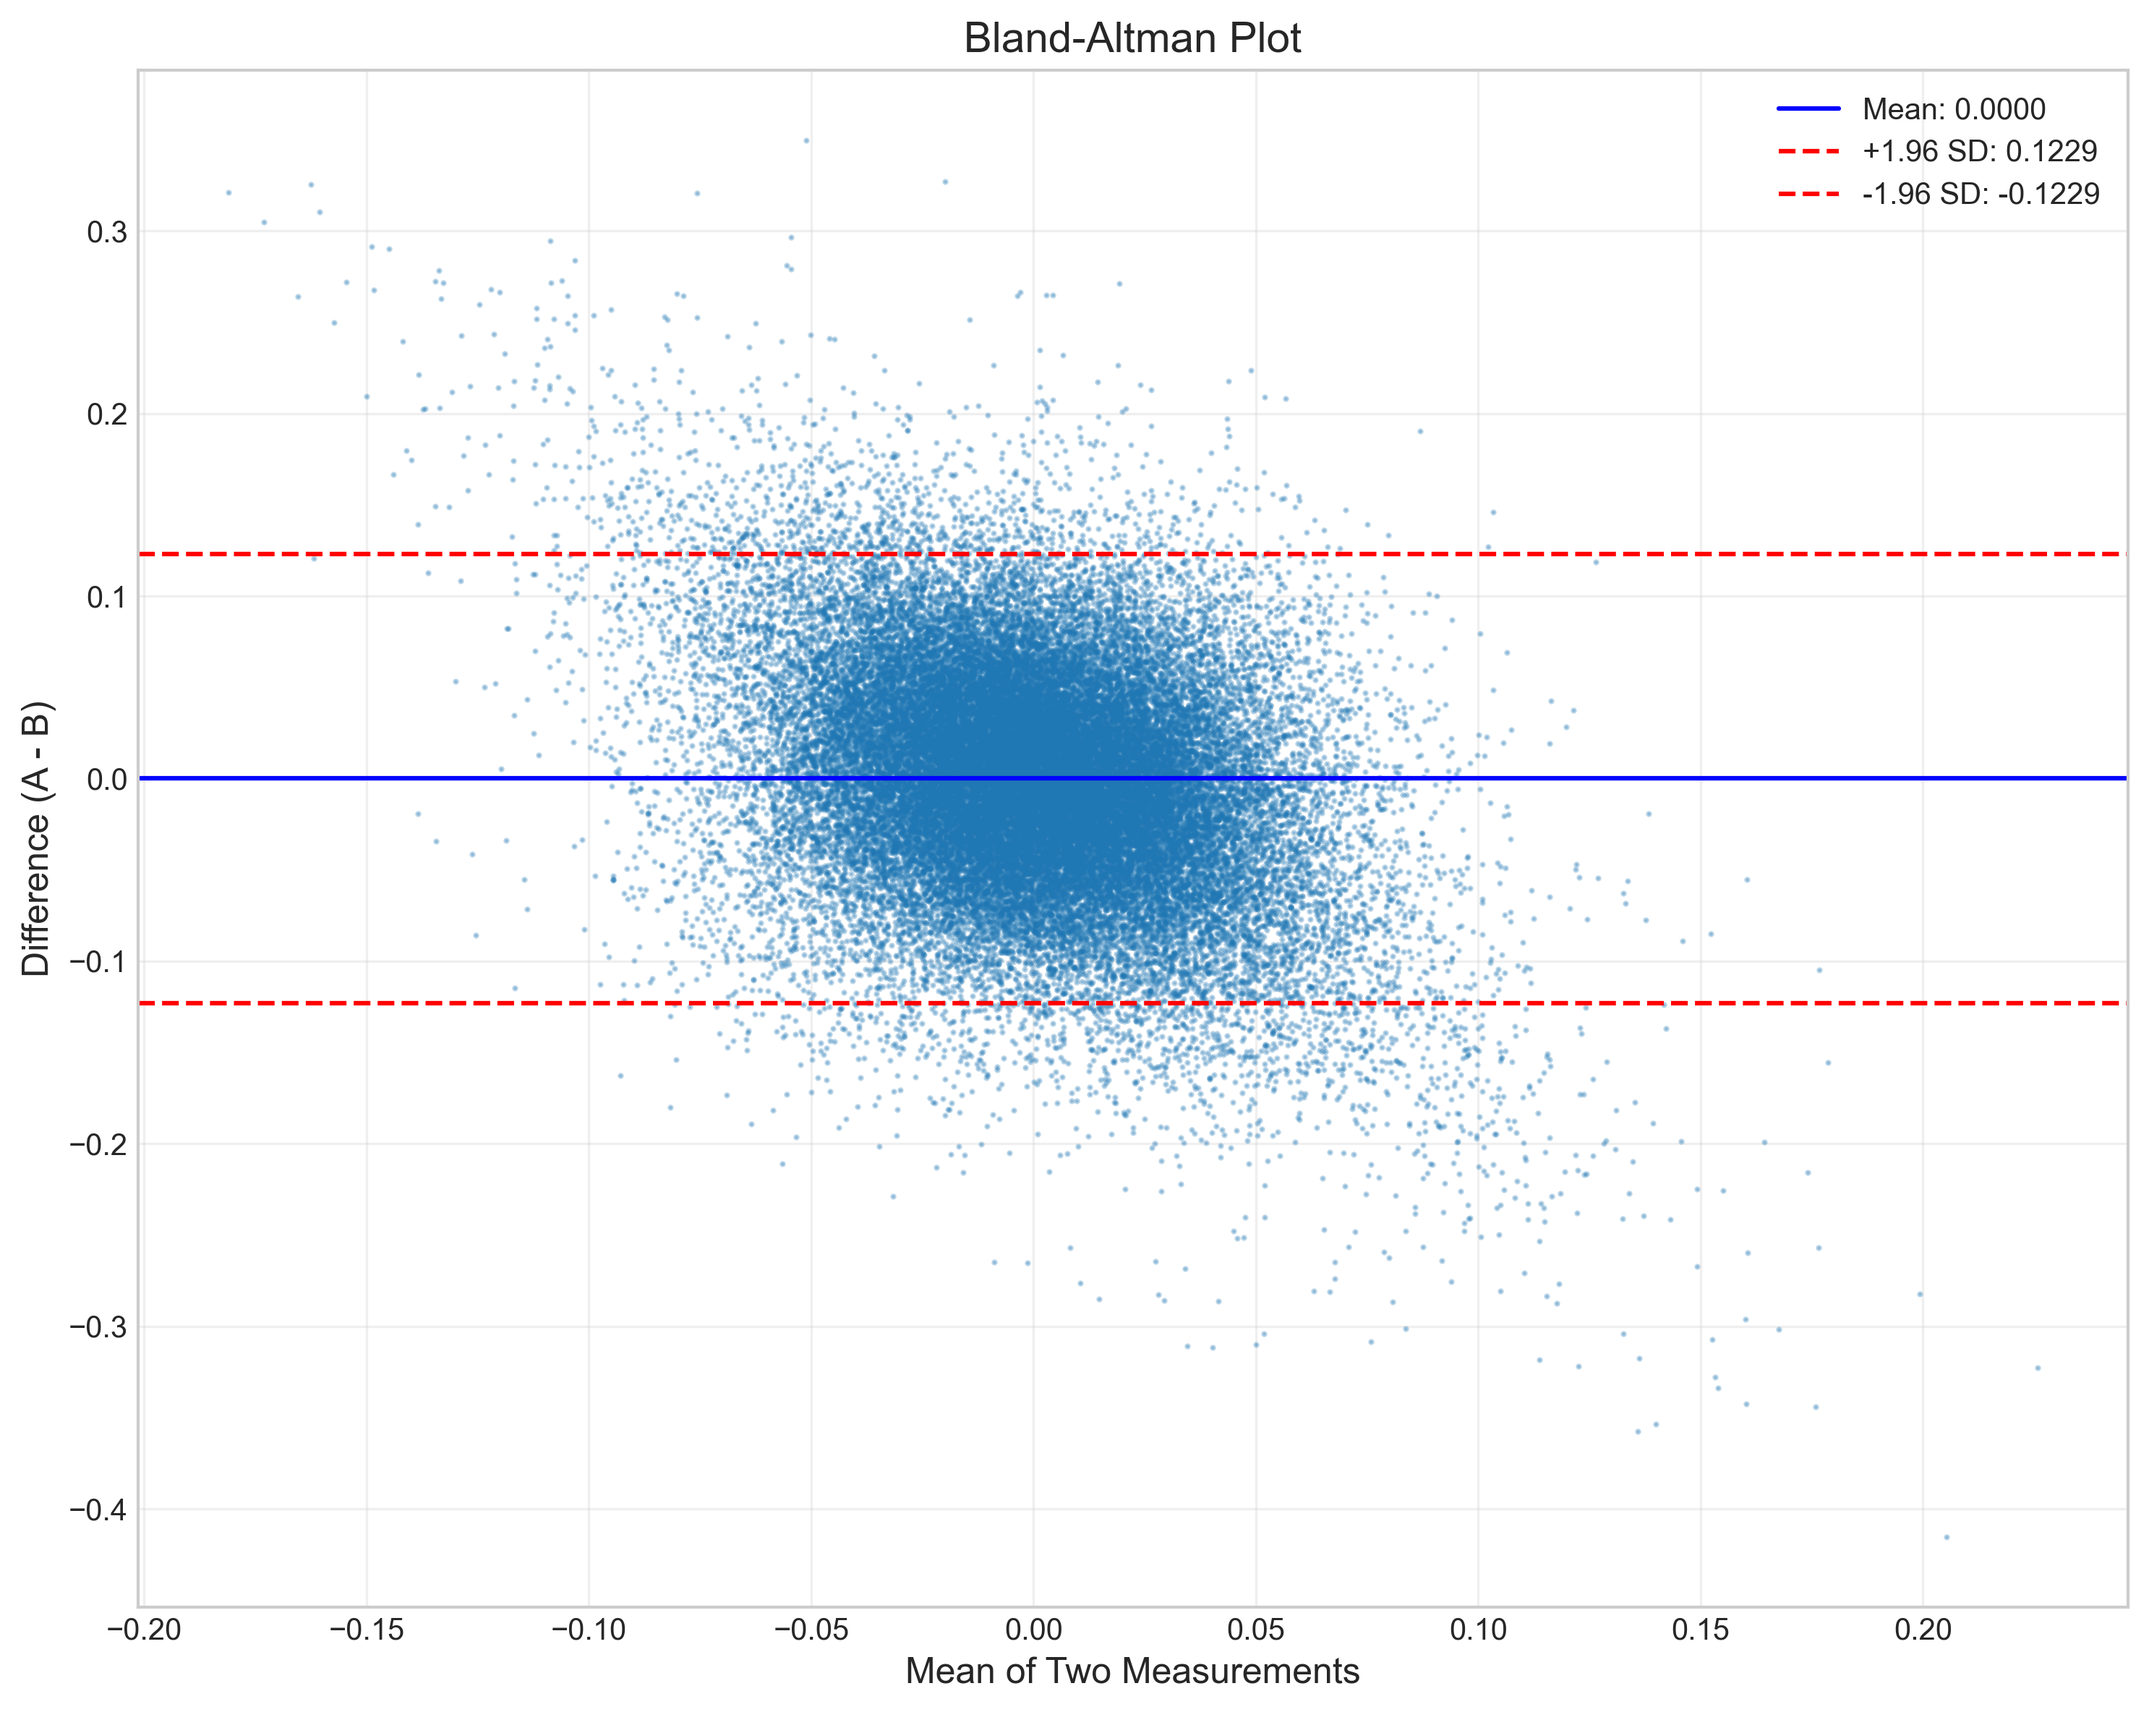
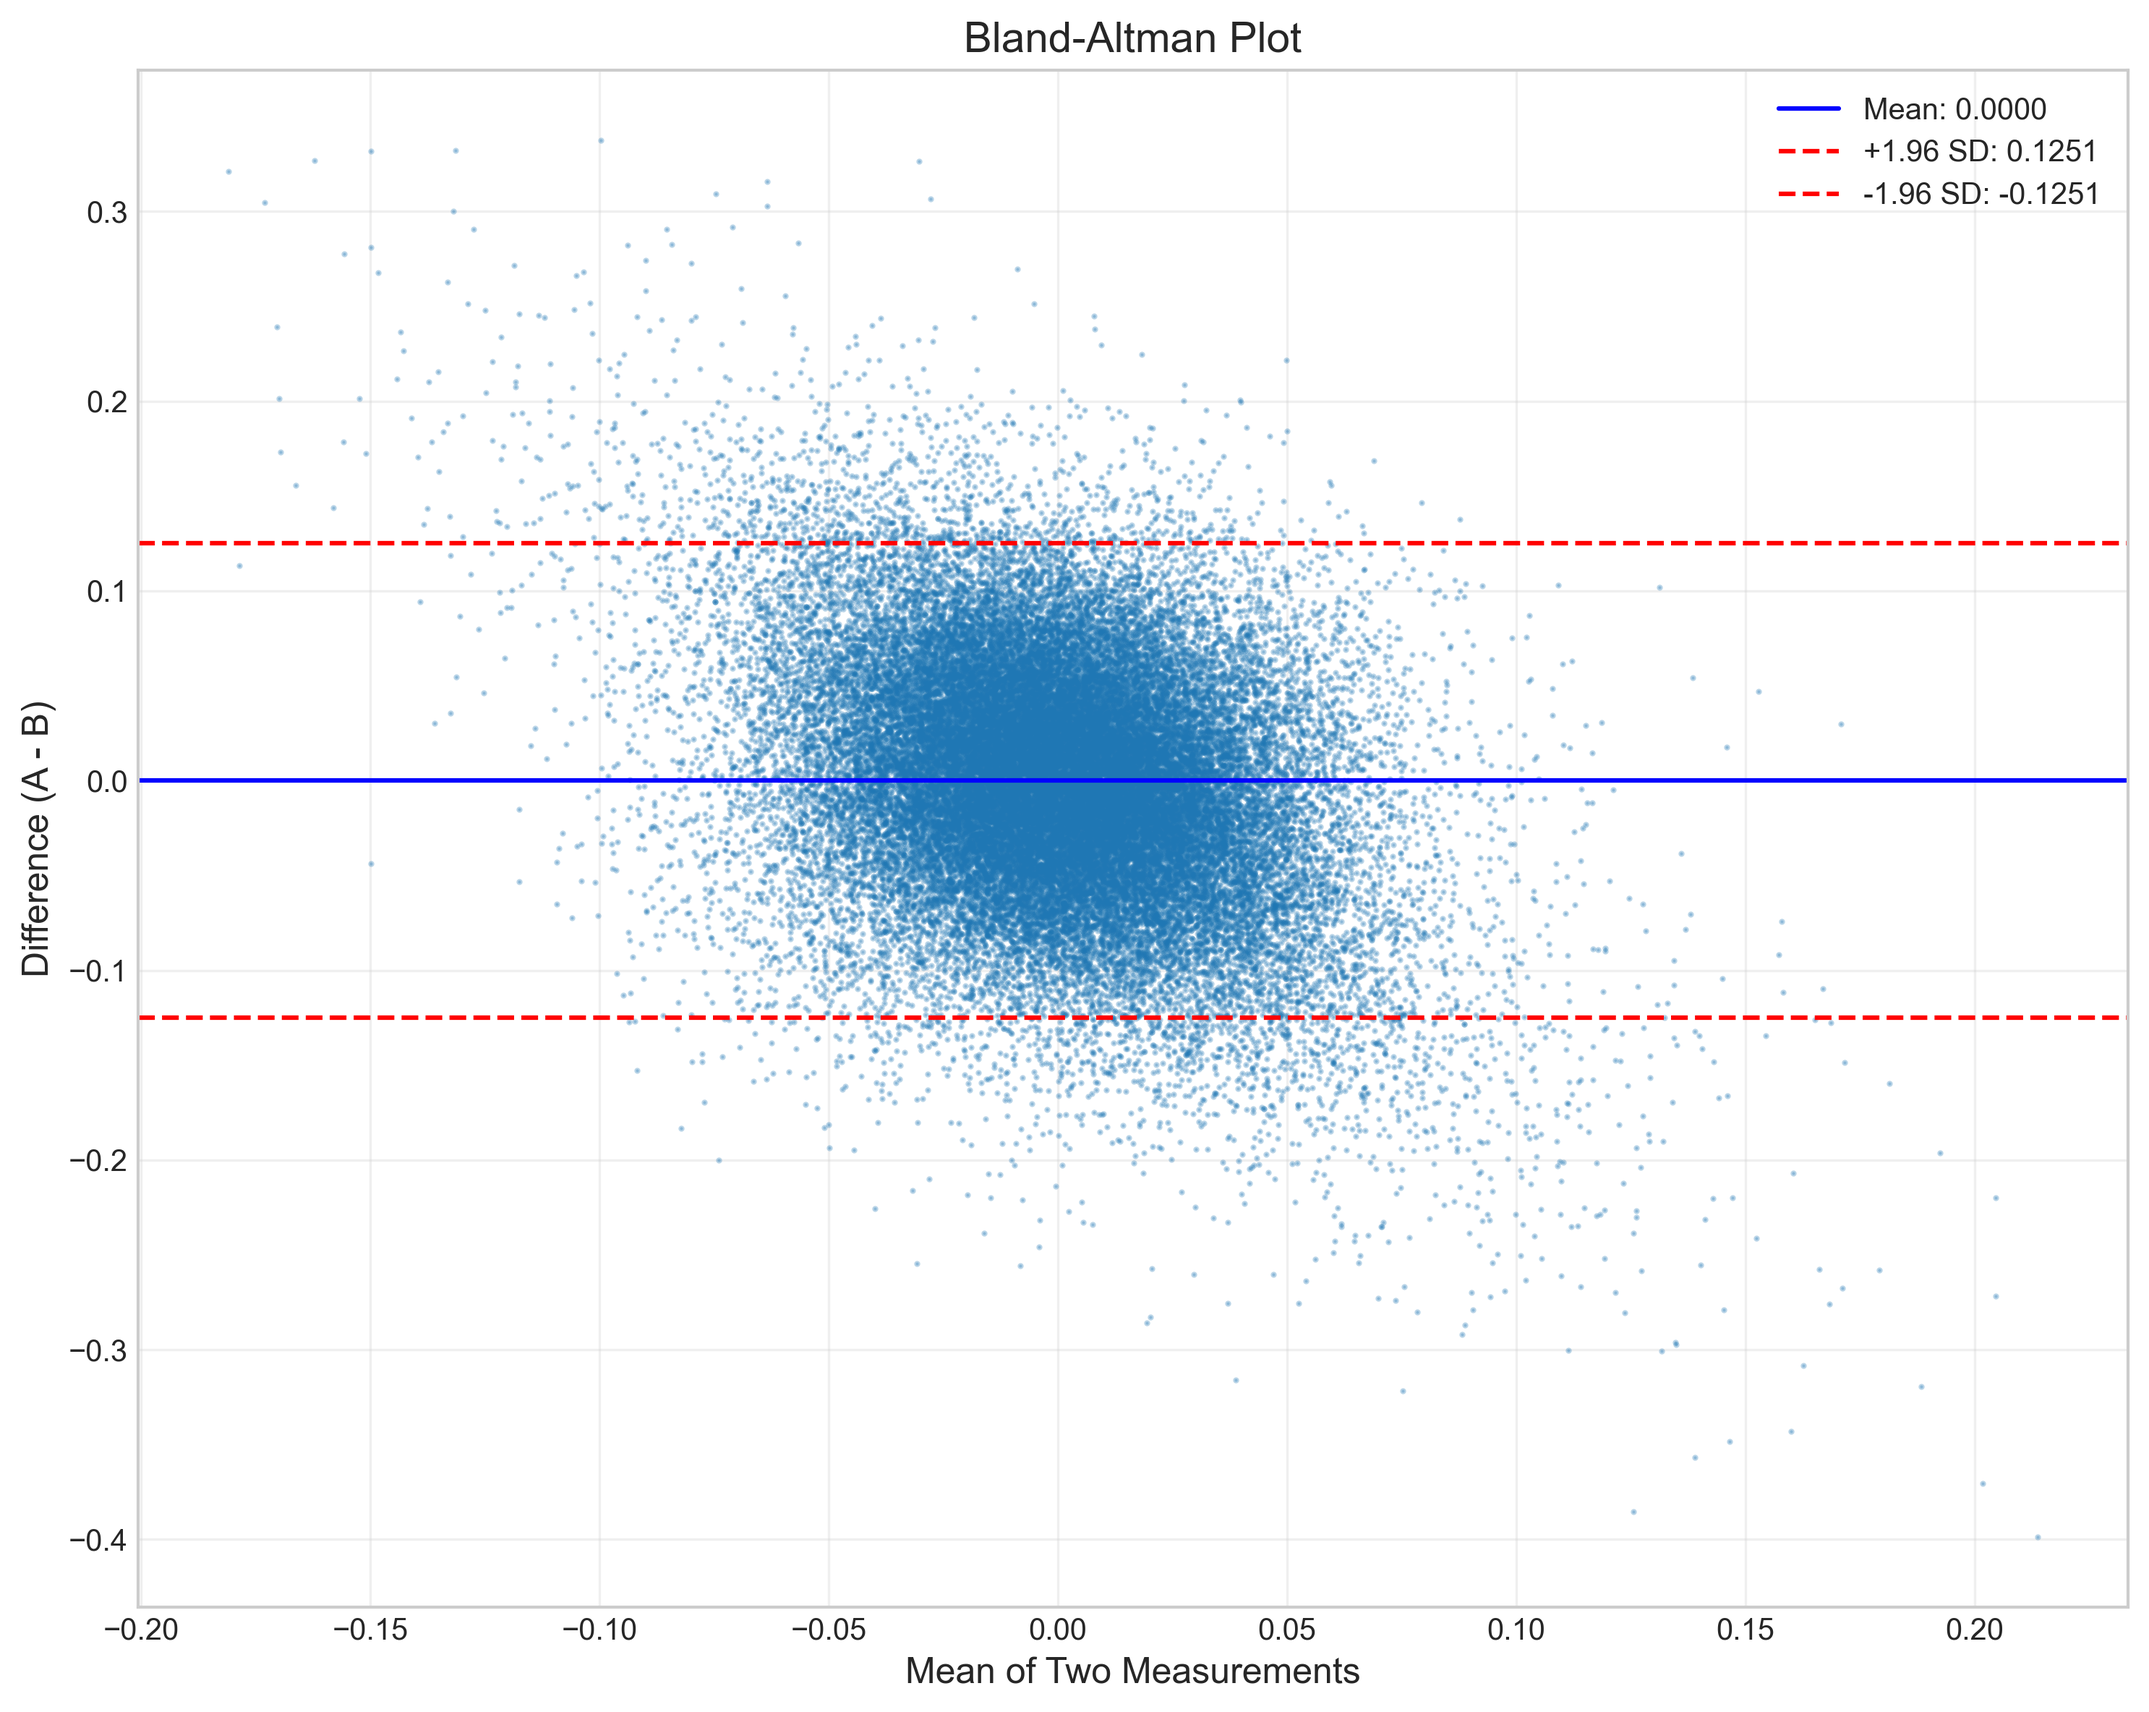
config: disable cross-correlation alignment, use absolute UTC timestamps directly
Sensors have absolute UTC timestamps — no need for xcorr-based alignment.
Disabling alignment gives true comparison at matched UTC time points.

diff --git a/results/reports/comparison_pair_report.md b/results/reports/comparison_pair_report.md
@@ -1,6 +1,6 @@
 # Full Comparison Report: Sensor A Channel 3 (g) vs Sensor B accZ(g)
 
-Generated: 2026-03-01 22:49:39
+Generated: 2026-03-01 22:54:15
 
 ---
 
@@ -8,25 +8,25 @@ Generated: 2026-03-01 22:49:39
 
 | Metric | Sensor A | Sensor B | Difference |
 |--------|----------|----------|------------|
-| mean | -0.000021 | -0.000044 | 0.000024 |
-| std | 0.036750 | 0.052619 | -0.015869 |
-| rms | 0.036750 | 0.052619 | -0.015869 |
+| mean | -0.000015 | -0.000033 | 0.000018 |
+| std | 0.036778 | 0.052391 | -0.015614 |
+| rms | 0.036778 | 0.052392 | -0.015614 |
 | peak | 0.185764 | 0.413046 | -0.227282 |
 | peak_to_peak | 0.359800 | 0.754486 | -0.394686 |
-| crest_factor | 5.054777 | 7.849742 | -2.794966 |
+| crest_factor | 5.051000 | 7.883843 | -2.832843 |
 
 ## Correlation Analysis
 
-- Pearson r: 0.048372
-- R²: 0.002340
-- Spearman r: 0.055424
+- Pearson r: 0.006438
+- R²: 0.000041
+- Spearman r: -0.003872
 
 ## Error Metrics
 
-- MAE: 0.048088
-- RMSE: 0.062708
-- NRMSE: 0.174285
-- Max Error: 0.415410
+- MAE: 0.049192
+- RMSE: 0.063817
+- NRMSE: 0.177369
+- Max Error: 0.398760
 
 ## Frequency Domain Analysis
 
@@ -38,8 +38,8 @@ Generated: 2026-03-01 22:49:39
 
 ## Interpretation
 
-- **Correlation (Pearson r = 0.0484)**: Poor
-- **NRMSE = 0.1743 (17.4%)**: Poor
+- **Correlation (Pearson r = 0.0064)**: Poor
+- **NRMSE = 0.1774 (17.7%)**: Poor
 - **Dominant frequency**: matched (11.64 Hz vs 11.72 Hz) — same vibration source confirmed
 
 **Conclusion**: Both sensors capture the same dominant vibration frequency, but waveform correlation is low. This is consistent with sensors placed at different physical locations on the structure, where vibration amplitude and phase differ. Time-lag sweep (cross-correlation over full data) confirmed no single offset improves correlation significantly (peak r < 0.08 across all channels). The low correlation is therefore attributed to spatial differences in sensor placement, not to timestamp misalignment.
